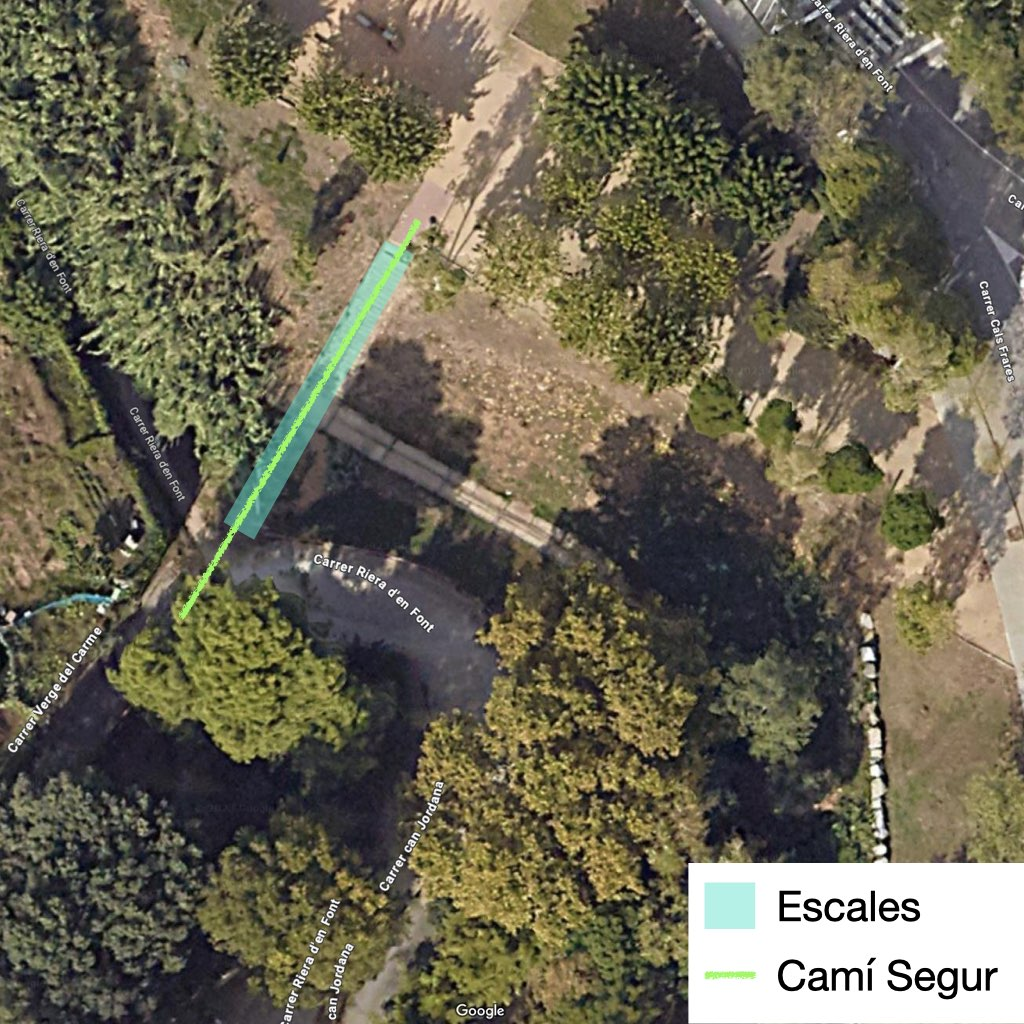
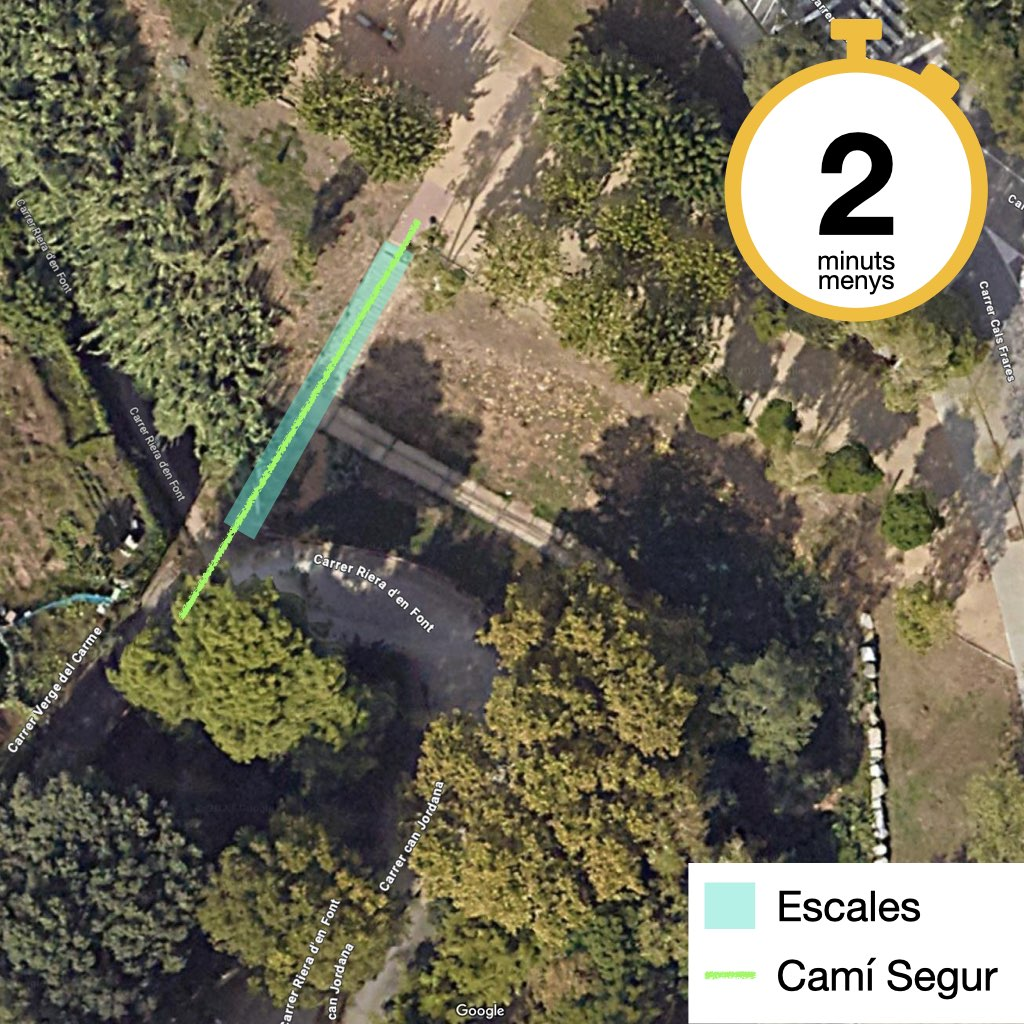
afegir mes posts i millorar imatges

Changed region(s): [[0.6875, 0.0, 0.9688, 0.3125]]

diff --git a/_posts/2023-10-04-escales-cals-frares.md b/_posts/2023-10-04-escales-cals-frares.md
@@ -1,0 +1,35 @@
+---
+layout: post
+title: "Fem unes escales de Cals Frares al Carrer Verge del Pilar"
+description: |
+  Fem unes escales que baixin des de Cals Frares fins a directament al Carrer Verge del Pilar, donant accés directe al centre de la vila, per passejar i gaudir dels comerços, parcs i serveis que hi ha.
+location: Cals Frares - Verge del Pilar
+imageBefore: /assets/images/2023/Tiana-EscalesVergedelPilar.Abans.jpg
+image: /assets/images/2023/Tiana-EscalesVergedelPilar.Nou.jpg
+date: 2023-10-02
+author: drpicox
+---
+
+Ara mateix, per qui visqui a la part alta de Can Gaietà, la forma més ràpida per arribar al centre del poble és donant tota la volta per Cals Frares. El trajecte és llarg, sinuós, i descoratge fer-lo. Per sort el camí actual evita la necessitat de donar la volta pel Camí Mig d'Alella, però encara es podria fer molt millor.
+
+Aquest camí és vital per poder accedir al centre. A llocs com la plaça de la vila, l'ajuntament, la policia, el basar, o fins i tot el restaurant Tirati Tiriti.
+
+Si mirem el mapa, s'atiava la intenció de les escales. Al carrer de Cals Frares hi ha una petita plaça que dona enlloc, que és el punt ideal per posar les escales de baixada. Si baixem per allà, hi ha un altre petit desviament que també es pot retallar fins a baixar a la riera. I un cop allà, en comptes d'aprofitar el forat de l'entrada de cotxes al pàrquing, es pot obrir un altre pas i donar accés directe al carrer Verge del Pilar. Un cop allà arribem en un no res al cor del poble.
+
+Aquest camí retalla tranquil·lament cinc minuts del desplaçament caminant, deu si anem i tornem, i és la clau per incentivar passejar pel centre del poble, i reduir la quantitat de cotxes que necessiten passar i aparcar al Carrer de la Verge del Pilar.
+
+**Així doncs, la proposta és**:
+
+- Fer un tram d'escales des de Cals Frares —alçada Fonoll— fins al "Passeig del Robot"
+- Fer un tram d'escales des del "Passeig del Robot" fins a la riera.
+- Fer una obertura amb unes escales per conectar la riera amb el carrer Verge del Pilar.
+
+**Els beneficis**:
+
+- Més facilitat per fer desplaçaments a peu.
+- Més seguretat i més incentius per cercar dins del poble.
+- Millor comerç local.
+
+Facilitant l'opció de caminar, augmenta el desig de passejar pel poble, i anar caminant en comptes d'usar el cotxe. Això té molts avantatges. Pels comerços augmenta la gent que s'hi acosta, i treu la temptació de qui agafa el cotxe i anar alguna altra tenda fora del poble. Pel poble més gent passejant, és un poble més viu, on la gent es veu les cares, es coneixen més, i gaudeixen més de la vida al poble. I per l'individu, ajuda a incorporar l'activitat física en la rutina diària, sense la necessitat de destinar temps extra per a l'exercici.
+
+Nota: Potser el nombre d'escales serà similar als que connecten la Riera d'en Font amb Carrer Vinyeta, però com el camí antic seguirà existint, qui vulgui pujar amb calma podrà fer volta. La baixada serà el principal incentiu. També es pot contemplar posar un raïl per passar les bicis, o carrets de la compra.

diff --git a/_posts/2023-10-02-escales-tres-bessones.md b/_posts/2023-10-02-escales-tres-bessones.md
@@ -1,0 +1,33 @@
+---
+layout: post
+title: "Acabem les escales de les Tres Bessones"
+description: |
+  Acabem el tram d'escales del Parc de les Tres Bessones al Carrer Verge del Carme i arribem dos minuts abans a la Tiana comercial.
+location: Tres Bessones - Verge del Carme
+imageBefore: /assets/images/2023/Tiana-EscalesVergedelCarme.Abans.jpg
+image: /assets/images/2023/Tiana-EscalesVergedelCarme.Nou.jpg
+date: 2023-10-02
+author: drpicox
+---
+
+Ara mateix, hi ha una drecera per anar des del Parc de les Tres Bessones fins al centre del poble que és baixant per unes escales que hi ha al mateix parc. Malgrat això, només hi ha un tram d'escales, i després canvia de direcció cap al Carrer Can Jordana.
+
+Això fa un desviament que fa que la gent hagi de perdre fins a dos minuts si intenta arribar al centre del poble.
+
+Molta gent, per estalviar-se els dos minuts, o bé rodeja la barana per l'altre costat, o s'escola entre la barana per baixar pel pendent. Prova d'això és que ja es veu el camí que se segueix, i fins i tot ja es poden entreveure els esglaons del seu ús.
+
+L'ajuntament ha intentat repetides vegades evitar que es prengui el camí directe per la seva perillositat en no estar adequat pel seu ús. Durant diverses iteracions, els veïns han anat obrint un pas en una de les baranes, traient el nervi del mig, i l'ajuntament tornant-la a soldar. Això es va repetir fins que l'ajuntament va canviar el sistema i va tancar encara més el forat de les baranes. Tot i així, això no evita el pas.
+
+El que es busca és oficialitzar el desig dels veïns que passen per allà de forma insegura, acabar les escales, i proporcionar-los un camí directe a la Tiana comercial que no doni tota la volta fins al Carrer Can Jordana. Que permeti estalviar dos minuts de temps, en cada un dels trajectes. Quatre minuts en un trajecte d'anada i tornada.
+
+**Així doncs, la proposta és**:
+
+- Acabar les escales en línea recte des del parc de les Tres Bessones.
+
+**Els beneficis**:
+
+- Més facilitat per fer desplaçaments a peu.
+- Més seguretat i més incentius per cercar dins del poble.
+- Millor comerç local.
+
+Facilitant l'opció de caminar, augmenta el desig de passejar pel poble, i anar caminant en comptes d'usar el cotxe. Això té molts avantatges. Pels comerços augmenta la gent que s'hi acosta, i treu la temptació de qui agafa el cotxe i anar alguna altra tenda fora del poble. Pel poble més gent passejant, és un poble més viu, on la gent es veu les cares, es coneixen més, i gaudeixen més de la vida al poble. I per l'individu, ajuda a incorporar l'activitat física en la rutina diària, sense la necessitat de destinar temps extra per a l'exercici.

diff --git a/_posts/2023-09-12-pas-vianants-bruguera-gaieta.md b/_posts/2023-09-12-pas-vianants-bruguera-gaieta.md
@@ -32,7 +32,7 @@ En aquesta cruïlla actualment hi ha un perill addicional. Si ja de per si és p
 **Els beneficis**:
 
 - Més facilitat per fer desplaçaments a peu.
-- Més seguretat i més incentius per cercar alternatives al poble.
+- Més seguretat i més incentius per cercar alternatives dins del poble.
 - Més espai per gaudir i passejar per Tiana.
 
 Cal destacar que incentivar desplaçaments a peu, redueix el nombre de viatges requerits en cotxe, és més sostenible, i caminar aporta beneficis per a la salut.

diff --git a/_posts/2023-09-18-pas-vianants-alella-frares-gaieta.md b/_posts/2023-09-18-pas-vianants-alella-frares-gaieta.md
@@ -37,7 +37,7 @@ Es proposa fer-ho zona de vianants per la diversitat de rutes que segueixen els 
 **Els beneficis:**
 
 - Més facilitat per fer desplaçaments a peu.
-- Més seguretat i més incentius per cercar alternatives al poble.
+- Més seguretat i més incentius per cercar alternatives dins del poble.
 - Més espai per gaudir i passejar per Tiana.
 
 Cal destacar que incentivar desplaçaments a peu, redueix el nombre de viatges requerits en cotxe, és més sostenible, i caminar aporta beneficis per a la salut.
